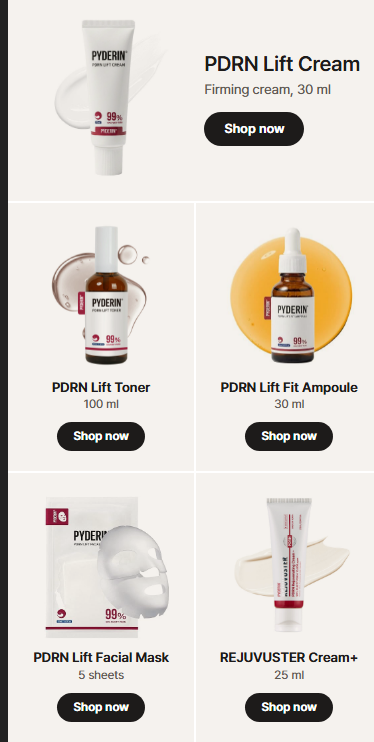
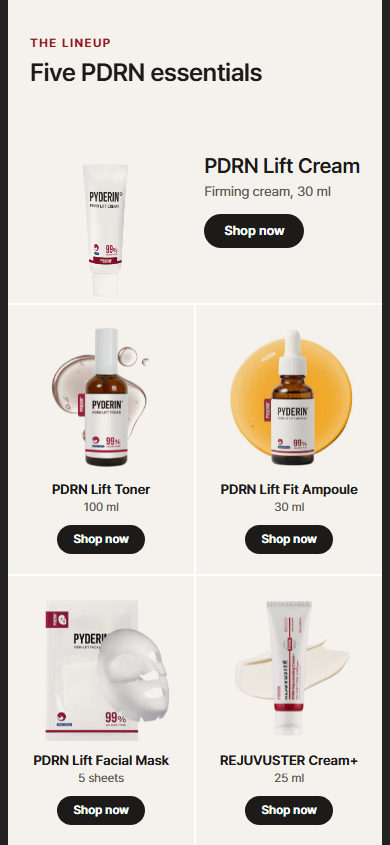
균형 손질: PYDERIN 크림 칸 확대, 메인 라인업 크림 사진 교체

Changed region(s): [[0.0588, 0.0, 1.0, 1.0], [0.8824, 0.7439, 0.9118, 0.7749], [0.3824, 0.341, 0.4118, 0.372]]

diff --git a/review/index.html b/review/index.html
@@ -102,15 +102,16 @@
 <div class="blk"><div><h2>12. PYDERIN 페이지 (병의원 라인)</h2><img src="sec/s12.png" alt=""></div><div class="scroll"><table><tr><th>번호</th><th>위치</th><th>국문 원문</th><th>영문 (가안)</th><th>근거·출처</th><th>확인 요청 사항</th><th>상품기획팀 확인</th><th>해외영업팀 영문 검수</th></tr>
 <tr><td>12-1</td><td class="pos">꼬리표 · 제목</td><td class="ko">리프트 라인 · 피더린 PDRN 리프트</td><td class="en">THE LIFT LINE · PYDERIN PDRN Lift</td><td class="src">사장님 정정(11/11): 크림은 약국에서도 판매 → &#x27;병의원 라인&#x27; 이름은 쓰지 않음</td><td class="ask"></td><td class="box"></td><td class="box"></td></tr>
 <tr><td>12-2</td><td class="pos">한 문장</td><td class="ko">한국 피부과·의원에서 만나는 PDRN 라인.</td><td class="en">The PDRN line found in Korean skin clinics.</td><td class="src">소개서 병의원 라인 4종</td><td class="ask">4종 모두 병의원 입점 제품이 맞는지. 약국에서도 파는 제품은 크림뿐인지</td><td class="box"></td><td class="box"></td></tr>
-<tr><td>12-3</td><td class="pos">배너 사진</td><td class="ko">(리프트 3종 스튜디오 연출 사진)</td><td class="en">(photo)</td><td class="src">NAS 디자인팀 제품 촬영 보정본</td><td class="ask"></td><td class="box"></td><td class="box"></td></tr>
-<tr><td>12-4</td><td class="pos">소제목</td><td class="ko">네 단계 · 각각의 역할</td><td class="en">THE FOUR STEPS · What each one does</td><td class="src"></td><td class="ask"></td><td class="box"></td><td class="box"></td></tr>
-<tr><td>12-5</td><td class="pos">01 토너</td><td class="ko">첫 단계. 수분을 채우고 다음 단계를 위해 피부를 정돈합니다.</td><td class="en">The first layer. Hydrates and preps skin for the steps that follow.</td><td class="src">미국 상세페이지 사용 순서</td><td class="ask">토너 설명으로 맞는지</td><td class="box"></td><td class="box"></td></tr>
-<tr><td>12-6</td><td class="pos">02 앰플</td><td class="ko">집중 단계. 가벼운 PDRN 세럼.</td><td class="en">The concentrated step. A lightweight PDRN serum.</td><td class="src">미국 상품 페이지</td><td class="ask">앰플 설명으로 맞는지 (&quot;가벼운&quot; 제형 표현 포함)</td><td class="box"></td><td class="box"></td></tr>
-<tr><td>12-7</td><td class="pos">03 크림</td><td class="ko">대표 탄력 크림.</td><td class="en">The signature firming cream.</td><td class="src">사장님 지정: 메인 SKU</td><td class="ask"></td><td class="box"></td><td class="box"></td></tr>
-<tr><td>12-8</td><td class="pos">주 1회 마스크</td><td class="ko">주 1회 시트 마스크. 한 상자 5매.</td><td class="en">The weekly sheet mask. Five sheets per box.</td><td class="src">미국 상품 페이지(43ml × 5)</td><td class="ask">사용 주기 주 1회가 맞는지</td><td class="box"></td><td class="box"></td></tr>
-<tr><td>12-9</td><td class="pos">큰 숫자 칸</td><td class="ko">대표 제품 PDRN 리프트 크림 · 연어 DNA PDRN 20,000ppm</td><td class="en">THE SIGNATURE: PDRN LIFT CREAM · 20,000 ppm of salmon DNA PDRN</td><td class="src">미국 상품 페이지 제목</td><td class="ask">2-4번과 같은 확인</td><td class="box"></td><td class="box"></td></tr>
-<tr><td>12-10</td><td class="pos">상품 목록 제목</td><td class="ko">라인 상품 · PDRN 리프트</td><td class="en">SHOP THE LINE · PDRN Lift</td><td class="src"></td><td class="ask"></td><td class="box"></td><td class="box"></td></tr>
-<tr><td>12-11</td><td class="pos">아래 이동 칸</td><td class="ko">한국 약국 라인 · 리쥬부스터 크림+ · 리쥬부스터 보기</td><td class="en">THE KOREAN PHARMACY LINE · REJUVUSTER Cream+ · Explore REJUVUSTER</td><td class="src">코스알엑스 라인 페이지 방식</td><td class="ask"></td><td class="box"></td><td class="box"></td></tr>
+<tr><td>12-3</td><td class="pos">크림 사진 칸</td><td class="ko">(리프트 크림 스튜디오 컷 — 큰 숫자 20,000ppm 위)</td><td class="en">(photo)</td><td class="src">NAS 디자인팀 제품 촬영 보정본</td><td class="ask"></td><td class="box"></td><td class="box"></td></tr>
+<tr><td>12-4</td><td class="pos">배너 사진</td><td class="ko">(리프트 3종 스튜디오 연출 사진)</td><td class="en">(photo)</td><td class="src">NAS 디자인팀 제품 촬영 보정본</td><td class="ask"></td><td class="box"></td><td class="box"></td></tr>
+<tr><td>12-5</td><td class="pos">소제목</td><td class="ko">네 단계 · 각각의 역할</td><td class="en">THE FOUR STEPS · What each one does</td><td class="src"></td><td class="ask"></td><td class="box"></td><td class="box"></td></tr>
+<tr><td>12-6</td><td class="pos">01 토너</td><td class="ko">첫 단계. 수분을 채우고 다음 단계를 위해 피부를 정돈합니다.</td><td class="en">The first layer. Hydrates and preps skin for the steps that follow.</td><td class="src">미국 상세페이지 사용 순서</td><td class="ask">토너 설명으로 맞는지</td><td class="box"></td><td class="box"></td></tr>
+<tr><td>12-7</td><td class="pos">02 앰플</td><td class="ko">집중 단계. 가벼운 PDRN 세럼.</td><td class="en">The concentrated step. A lightweight PDRN serum.</td><td class="src">미국 상품 페이지</td><td class="ask">앰플 설명으로 맞는지 (&quot;가벼운&quot; 제형 표현 포함)</td><td class="box"></td><td class="box"></td></tr>
+<tr><td>12-8</td><td class="pos">03 크림</td><td class="ko">대표 탄력 크림.</td><td class="en">The signature firming cream.</td><td class="src">사장님 지정: 메인 SKU</td><td class="ask"></td><td class="box"></td><td class="box"></td></tr>
+<tr><td>12-9</td><td class="pos">주 1회 마스크</td><td class="ko">주 1회 시트 마스크. 한 상자 5매.</td><td class="en">The weekly sheet mask. Five sheets per box.</td><td class="src">미국 상품 페이지(43ml × 5)</td><td class="ask">사용 주기 주 1회가 맞는지</td><td class="box"></td><td class="box"></td></tr>
+<tr><td>12-10</td><td class="pos">큰 숫자 칸</td><td class="ko">대표 제품 PDRN 리프트 크림 · 연어 DNA PDRN 20,000ppm</td><td class="en">THE SIGNATURE: PDRN LIFT CREAM · 20,000 ppm of salmon DNA PDRN</td><td class="src">미국 상품 페이지 제목</td><td class="ask">2-4번과 같은 확인</td><td class="box"></td><td class="box"></td></tr>
+<tr><td>12-11</td><td class="pos">상품 목록 제목</td><td class="ko">라인 상품 · PDRN 리프트</td><td class="en">SHOP THE LINE · PDRN Lift</td><td class="src"></td><td class="ask"></td><td class="box"></td><td class="box"></td></tr>
+<tr><td>12-12</td><td class="pos">아래 이동 칸</td><td class="ko">한국 약국 라인 · 리쥬부스터 크림+ · 리쥬부스터 보기</td><td class="en">THE KOREAN PHARMACY LINE · REJUVUSTER Cream+ · Explore REJUVUSTER</td><td class="src">코스알엑스 라인 페이지 방식</td><td class="ask"></td><td class="box"></td><td class="box"></td></tr>
 </table></div></div>
 <div class="blk"><div><h2>13. REJUVUSTER 페이지 (약국 라인)</h2><img src="sec/s13.png" alt=""></div><div class="scroll"><table><tr><th>번호</th><th>위치</th><th>국문 원문</th><th>영문 (가안)</th><th>근거·출처</th><th>확인 요청 사항</th><th>상품기획팀 확인</th><th>해외영업팀 영문 검수</th></tr>
 <tr><td>13-1</td><td class="pos">꼬리표 · 제목</td><td class="ko">한국 약국 라인 · 리쥬부스터 크림+</td><td class="en">THE KOREAN PHARMACY LINE · REJUVUSTER Cream+</td><td class="src">사장님 확인(11/11): 리쥬부스터는 약국 전용</td><td class="ask">미국 약국 판매로 오해되지 않게 &#x27;Korean&#x27;을 붙였습니다. 표현이 괜찮은지</td><td class="box"></td><td class="box"></td></tr>

diff --git a/index.html b/index.html
@@ -377,7 +377,7 @@
     <div class="sec"><span class="n">5</span><div class="title"><span class="eyebrow">The lineup</span><h3>Five PDRN essentials</h3></div></div>
     <div class="sec"><span class="n">6</span>
       <div class="cards">
-        <div class="pc wide"><img src="img/m-cream.jpg" alt=""><div>PDRN Lift Cream<small>Firming cream, 30 ml</small><u>Shop now</u></div></div>
+        <div class="pc wide"><img src="img/c-cream.png" alt="" style="transform:scale(1.25)"><div>PDRN Lift Cream<small>Firming cream, 30 ml</small><u>Shop now</u></div></div>
         <div class="pc"><img src="img/m-toner.jpg" alt="">PDRN Lift Toner<small>100 ml</small><u>Shop now</u></div>
         <div class="pc"><img class="pk" src="img/ampoule.jpg" alt="">PDRN Lift Fit Ampoule<small>30 ml</small><u>Shop now</u></div>
         <div class="pc"><img class="pk" src="img/mask.jpg" alt="">PDRN Lift Facial Mask<small>5 sheets</small><u>Shop now</u></div>
@@ -407,7 +407,6 @@
   <div class="sec"><div class="end"><img src="img/logo-white.png" alt="PYDERIN" style="height:30px;margin:auto"><small>Korean clinic and pharmacy skincare</small></div></div></div><div class="page" id="pyderin">
   <div class="sec full"><img src="img/v3/lift-blocks.jpg" alt="" style="aspect-ratio:390/610;object-position:50% 100%">
     <div class="ov"><span class="eyebrow">The Lift line</span><h2>PYDERIN<br>PDRN Lift</h2><p>The PDRN line found in Korean skin clinics.</p></div></div>
-  <div class="sec feat" style="background:var(--red);color:#fff"><img src="img/v3/cream-texture.jpg" alt="" style="aspect-ratio:7/8"><div><span class="eyebrow" style="color:#fff;opacity:.8">The signature:<br>PDRN Lift Cream</span><b style="font-size:34px;font-weight:500;letter-spacing:-.03em;margin:12px 0 6px;white-space:nowrap">20,000 ppm</b><span style="font-size:13.5px;line-height:1.35">of salmon DNA PDRN</span></div></div>
   <div class="sec"><div class="title"><span class="eyebrow">The four steps</span><h3>What each one does</h3></div>
     <div class="s4">
       <div><b>01</b><strong>PDRN Lift Toner</strong><span>The first layer. Hydrates and preps skin for the steps that follow.</span></div>
@@ -415,6 +414,7 @@
       <div><b>03</b><strong>PDRN Lift Cream</strong><span>The signature firming cream.</span></div>
       <div><b>Weekly</b><strong>PDRN Lift Facial Mask</strong><span>The weekly sheet mask. Five sheets per box.</span></div>
     </div></div>
+  <div class="sec num" style="margin-top:34px"><img src="img/v3/cream-block.jpg" alt="" style="aspect-ratio:35/39"><div><span class="eyebrow" style="opacity:.8;margin-bottom:10px">The signature: PDRN Lift Cream</span><b>20,000 ppm</b>of salmon DNA PDRN</div></div>
   <div class="sec"><div class="title"><span class="eyebrow">Shop the line</span><h3>PDRN Lift</h3></div></div>
   <div class="sec az"><div class="grid"><div class="card"><img class="pk" src="img/m-cream.jpg" alt="">PYDERIN PDRN Lift Cream, 30 ml<br><span class="stars">★★★★★</span><span class="price">Price shown by Amazon</span><span class="buy">Add to Cart</span></div><div class="card"><img class="pk" src="img/m-toner.jpg" alt="">PYDERIN PDRN Lift Toner, 100 ml<br><span class="stars">★★★★★</span><span class="price">Price shown by Amazon</span><span class="buy">Add to Cart</span></div><div class="card"><img class="pk" src="img/ampoule.jpg" alt="">PYDERIN PDRN Lift Fit Ampoule, 30 ml<br><span class="stars">★★★★★</span><span class="price">Price shown by Amazon</span><span class="buy">Add to Cart</span></div><div class="card"><img class="pk" src="img/mask.jpg" alt="">PYDERIN PDRN Lift Facial Mask, 5 sheets<br><span class="stars">★★★★★</span><span class="price">Price shown by Amazon</span><span class="buy">Add to Cart</span></div></div><div class="aznote">아마존 상품 목록 칸 — 사진·가격·별점·버튼은 아마존이 자동으로 채움</div></div>
   <a class="xt" href="#rejuvuster"><div><span class="eyebrow">The Korean pharmacy line</span><b>REJUVUSTER<br>Cream+</b><u>Explore</u></div><img src="img/c-rejuvuster.png" alt="" style="object-fit:contain;padding:14px 0"></a>
